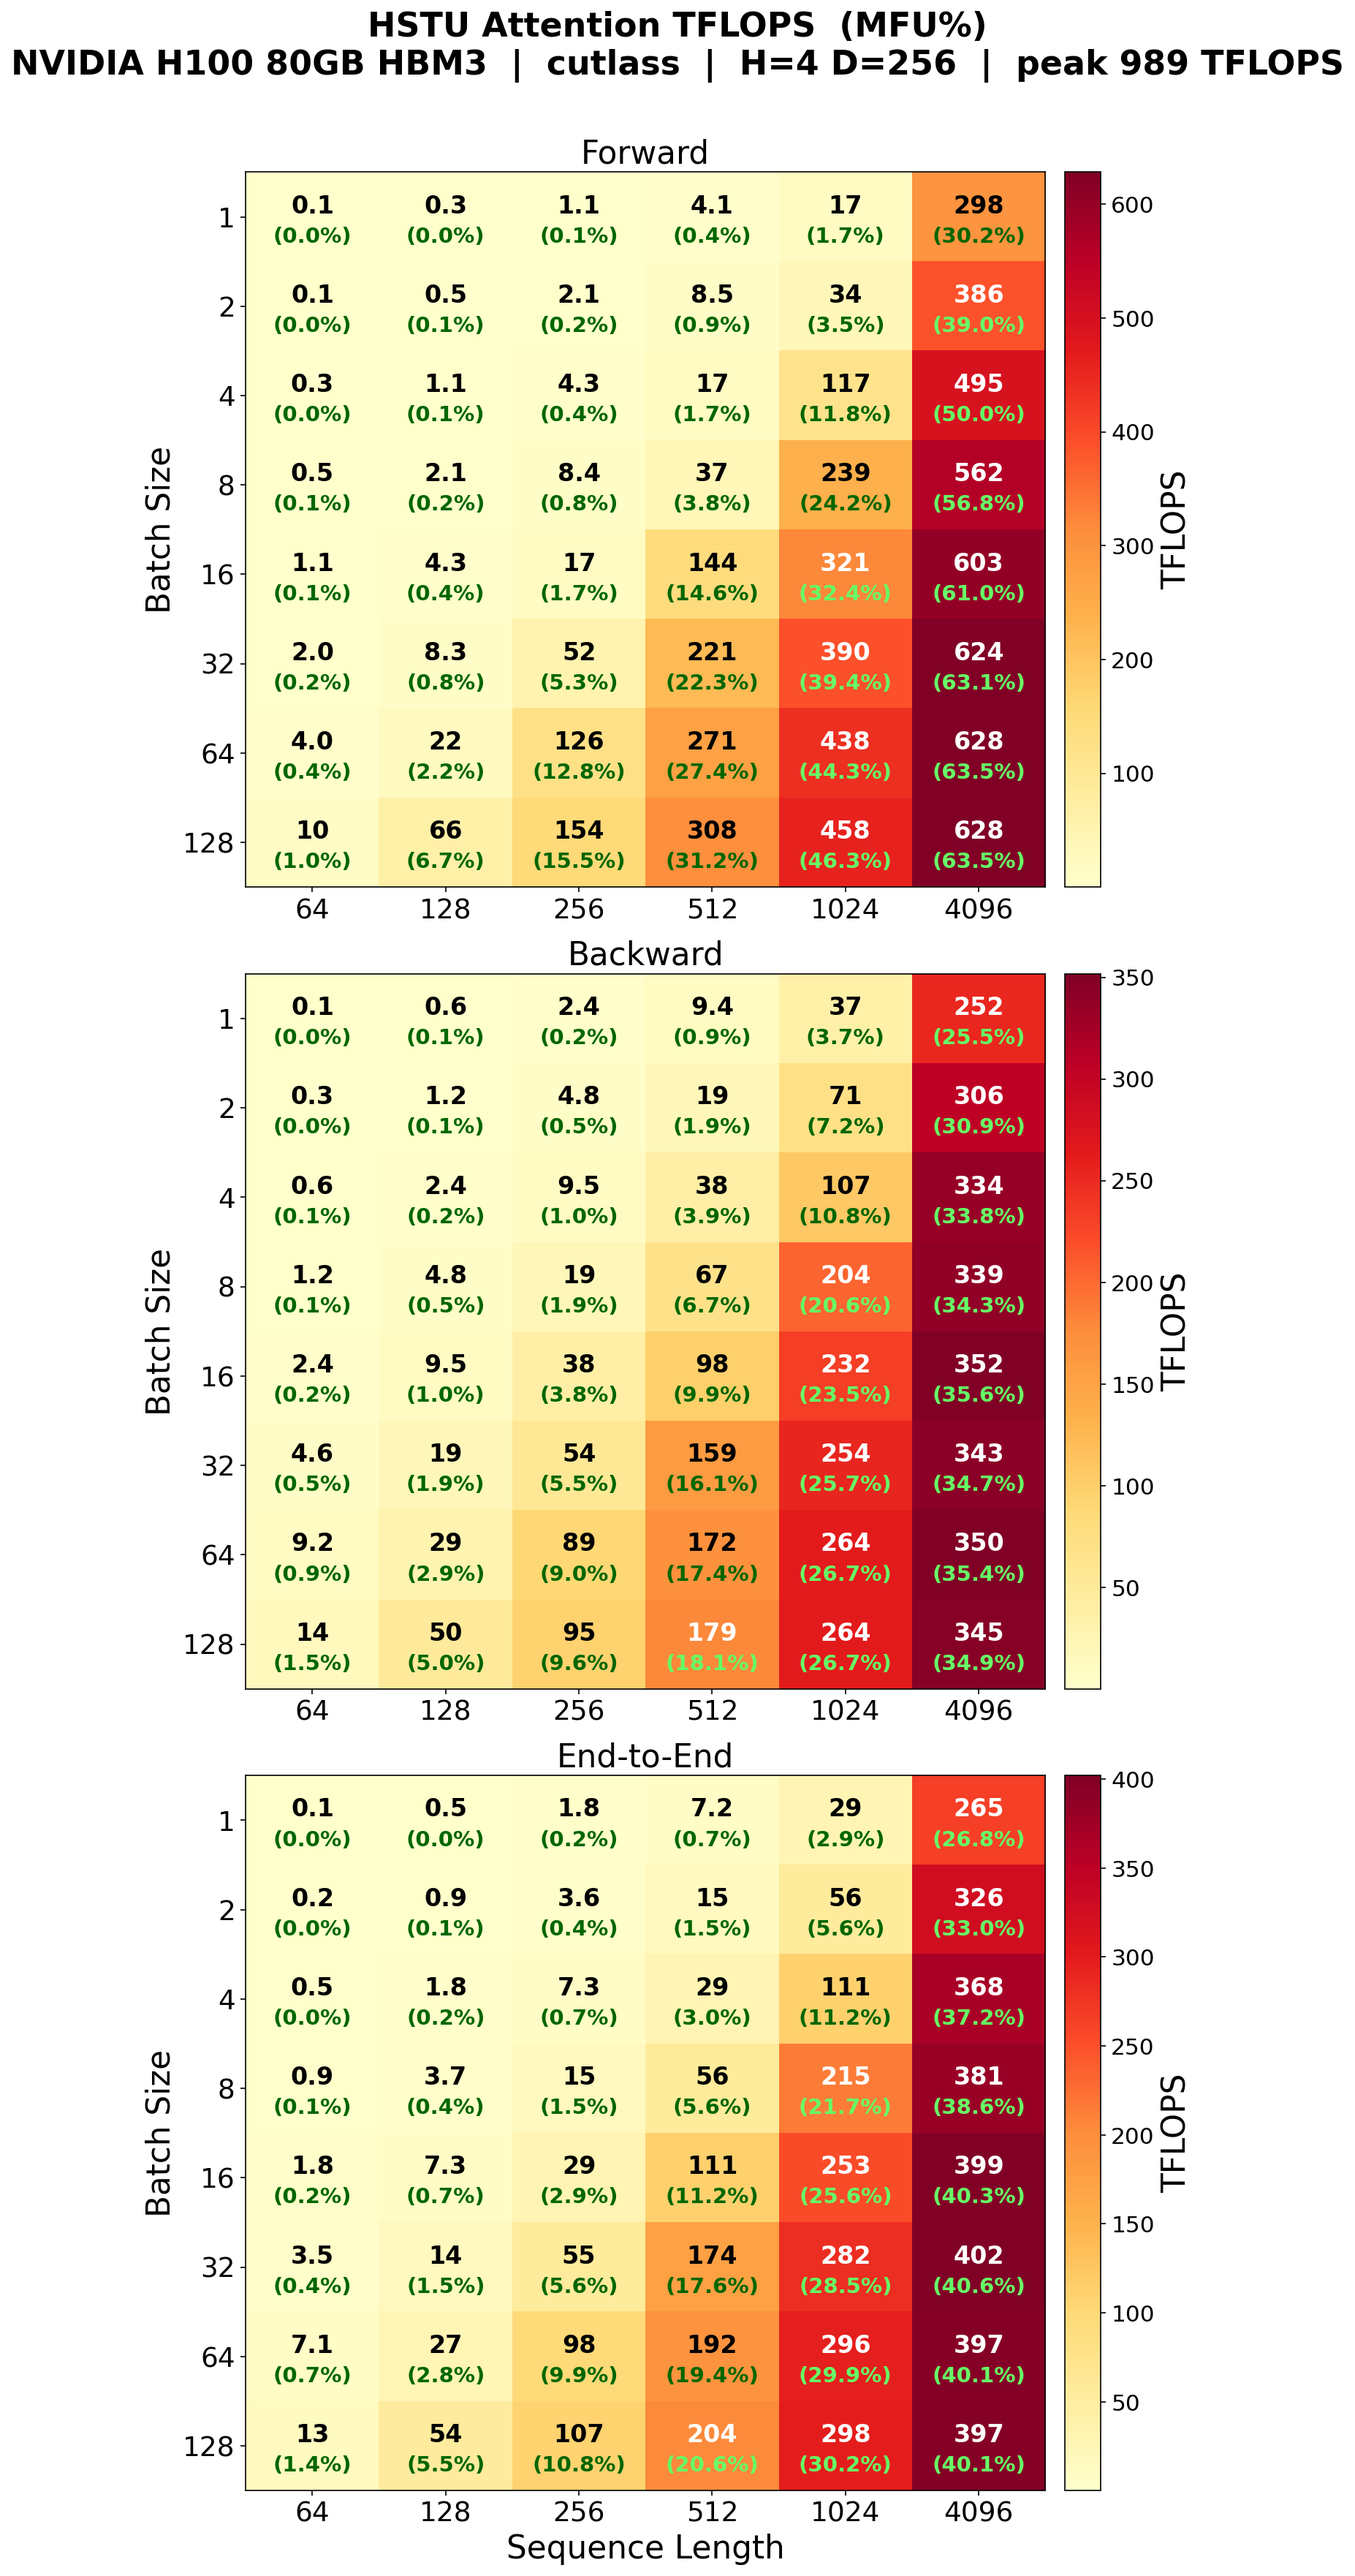
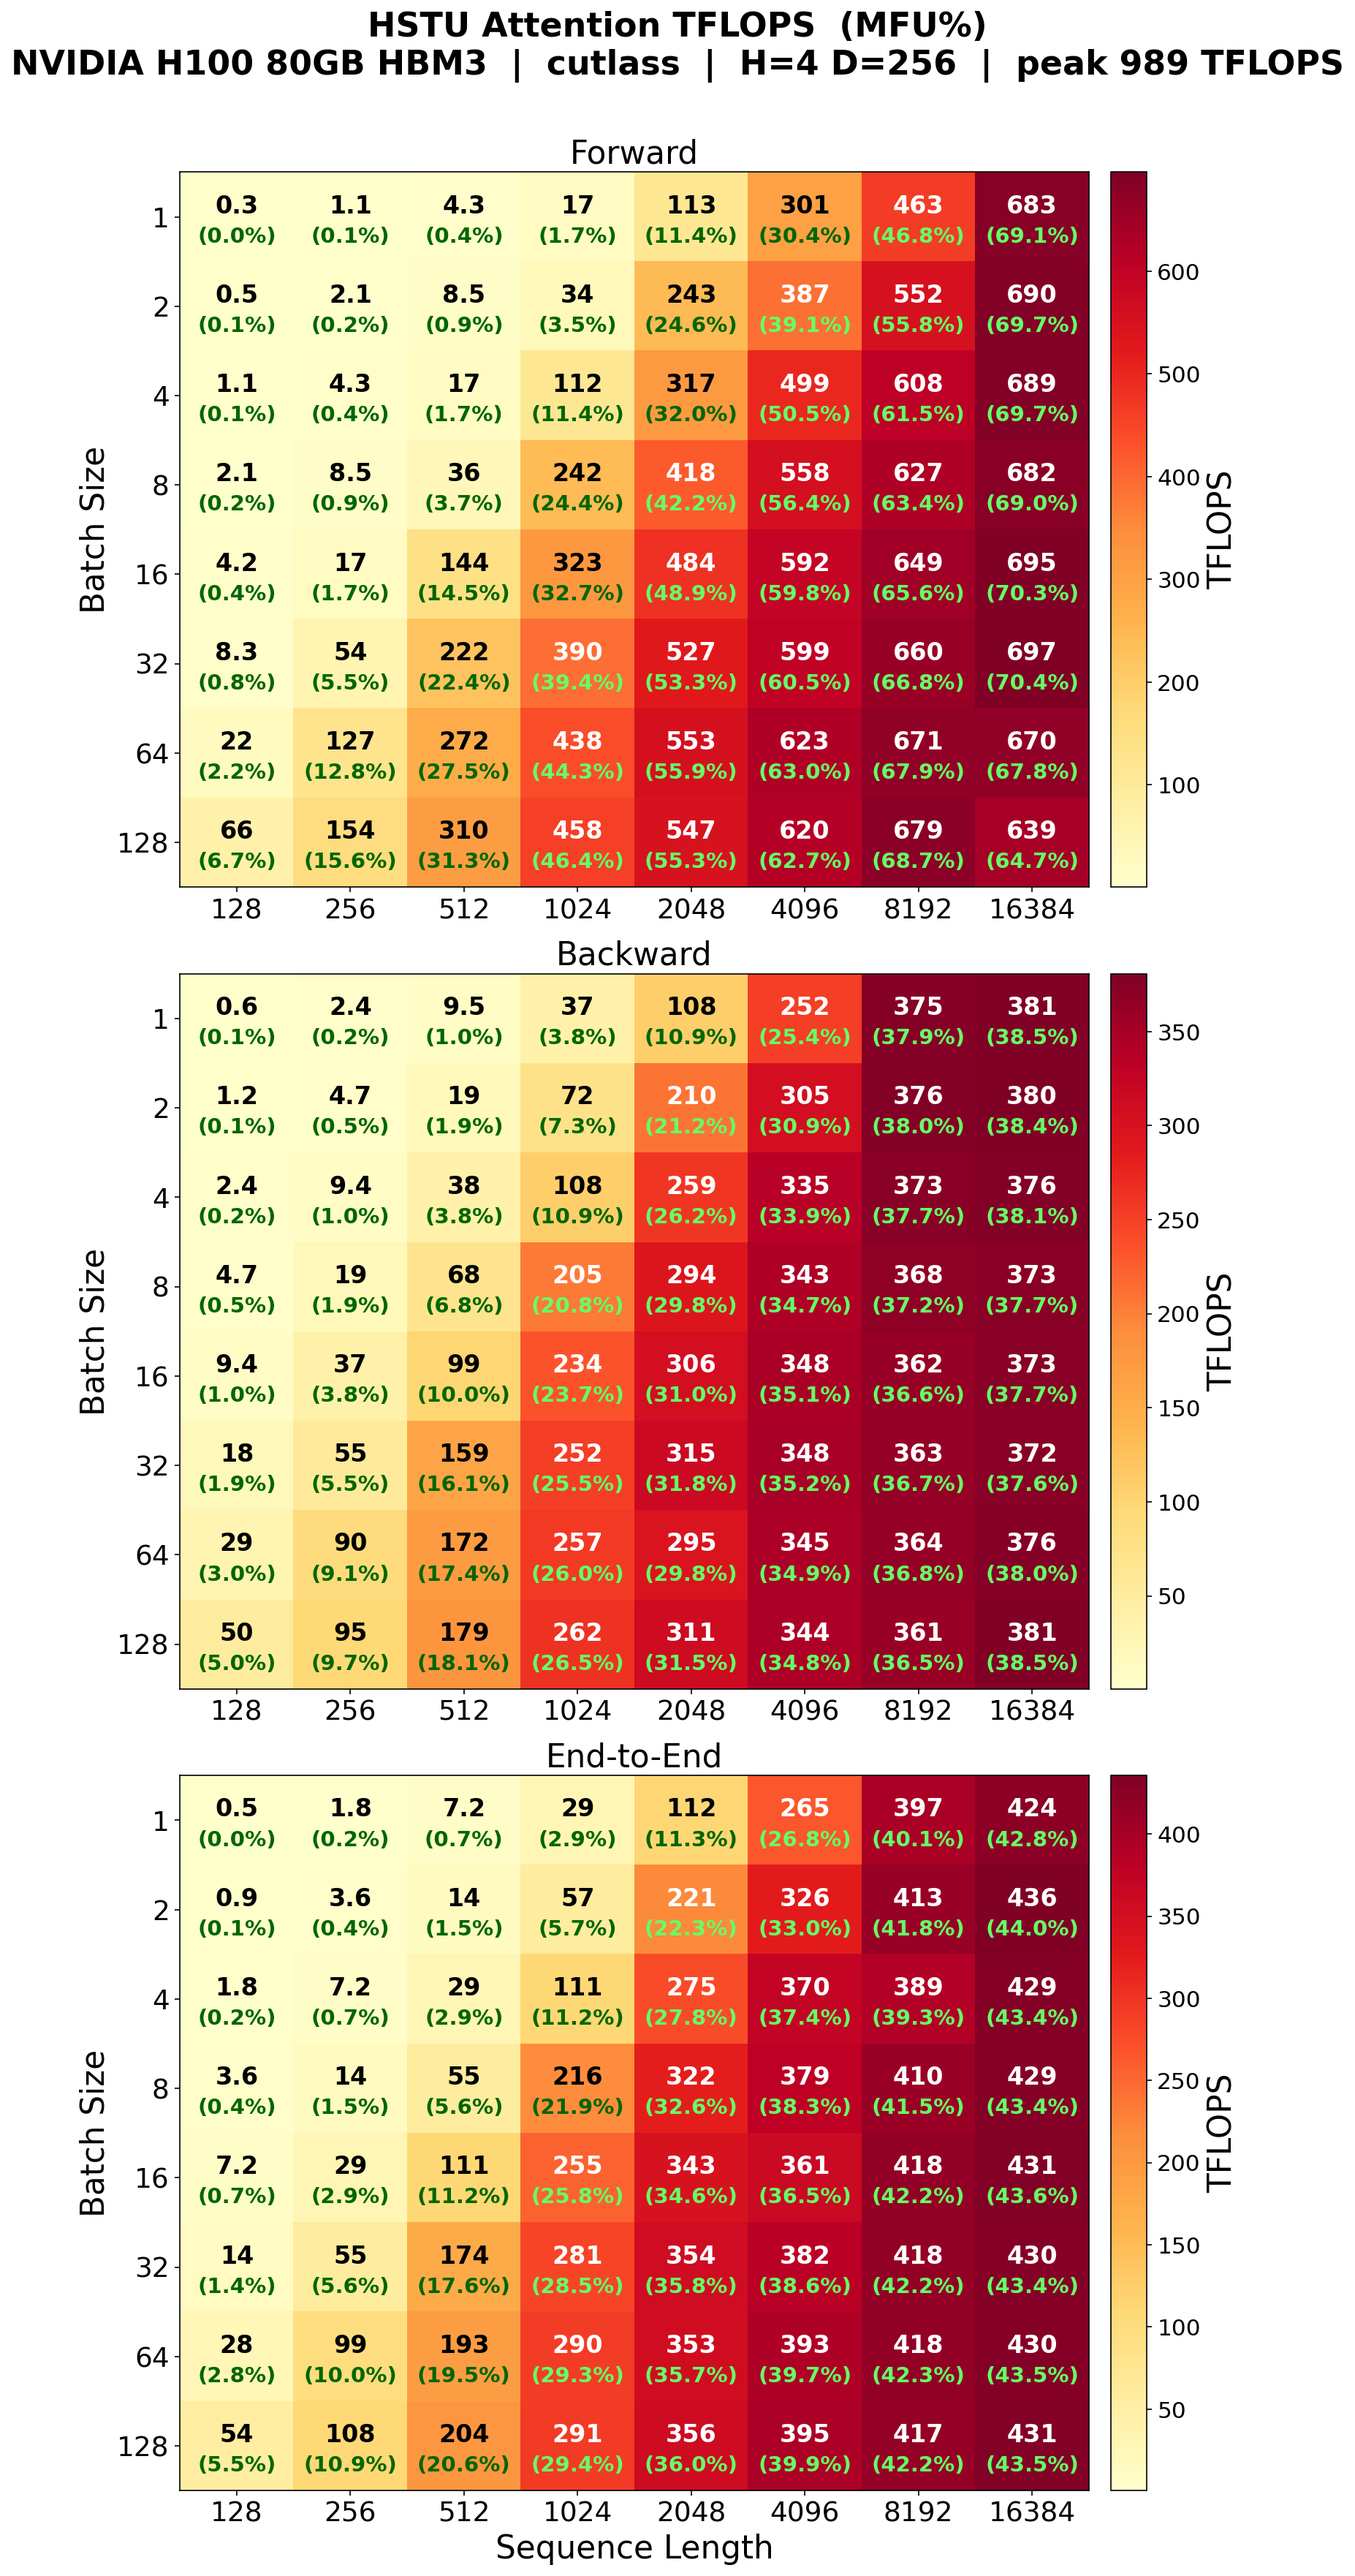
docs(benchmark): link performance breakdown

diff --git a/examples/hstu/training/benchmark/README.md b/examples/hstu/training/benchmark/README.md
@@ -86,7 +86,7 @@ with the right `--benchmark-type`.
 
 Progressive benchmark measuring end-to-end MFU as optimizations are incrementally enabled (workload-balanced shuffler, CUTLASS attention, DynamicEmb caching, hash-roundrobin sharding, and prefetch pipeline).
 
-See the [E2E benchmark documentation](./E2E_BENCHMARK.md) for the latest results and analysis.
+See the [E2E benchmark documentation](./E2E_BENCHMARK.md) for the latest results and the [performance analysis](./PERF_ANALYSIS.md) for the GPU time breakdown.
 
 ### HSTU Attention Kernel Benchmark
 
@@ -107,7 +107,7 @@ bash training/benchmark/scripts/submit_all_experiments_slurm.sh \
 # Ad-hoc one-off (bypass the config file)
 python training/benchmark/scripts/hstu_attn_kernel_benchmark.py \
     --gin-config-file training/configs/benchmark_ranking.gin \
-    --batch-sizes 4,8,16,32,64 \
+    --batch-sizes 1,2,4,8,16,32,64,128 \
     --seqlens 128,256,512,1024,2048,4096,8192,16384
 ```
 
@@ -119,11 +119,11 @@ MFU uses the dense BF16 Tensor Core peak of 989 TFLOPS per H100 GPU.
 
 | Phase | Best config | Time | TFLOPS | MFU |
 |-------|-------------|-----:|-------:|----:|
-| Forward | BS=64, SeqLen=4096 | 3.501 ms | 628.1 | 63.5% |
-| Backward | BS=16, SeqLen=4096 | 3.908 ms | 351.7 | 35.6% |
-| Forward+Backward | BS=32, SeqLen=4096 | 9.572 ms | 402.0 | 40.6% |
+| Forward | BS=32, SeqLen=16384 | 25.256 ms | 696.6 | 70.4% |
+| Backward | BS=128, SeqLen=16384 | 462.121 ms | 380.7 | 38.5% |
+| Forward+Backward | BS=2, SeqLen=16384 | 8.834 ms | 435.6 | 44.0% |
 
-The CUTLASS attention kernel achieves peak MFU at large batch × seqlen products, where the GPU compute units are fully saturated. OOM (grey cells) occurs at the largest configurations.
+The CUTLASS attention kernel reaches peak MFU at large sequence lengths, where the GPU compute units are fully saturated.
 
 ### Fused HSTU Layer Benchmark
 
